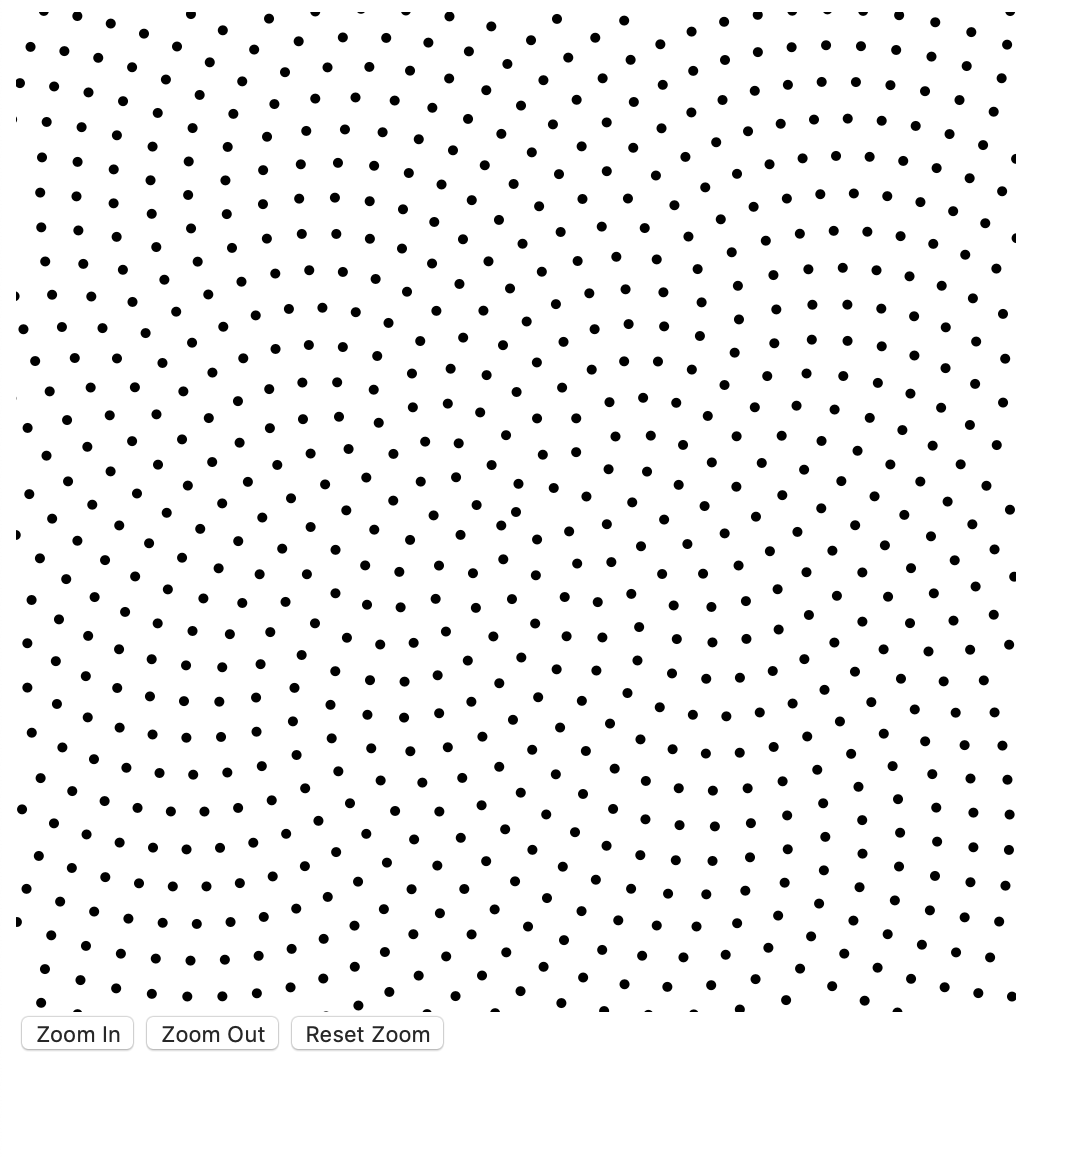
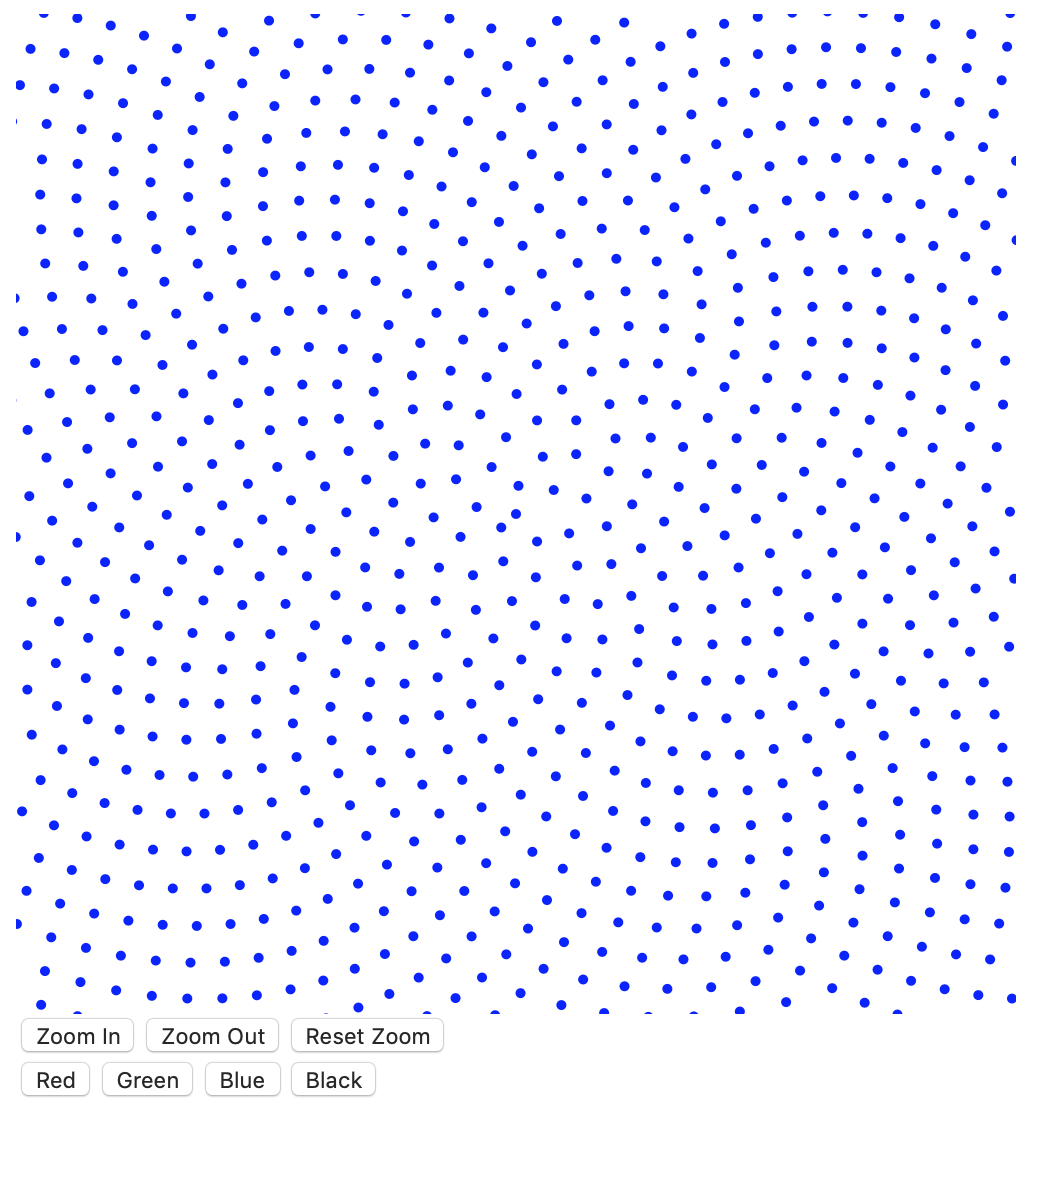
more code

diff --git a/src/App.js b/src/App.js
@@ -1,4 +1,4 @@
-import React, { useRef, useCallback } from "react";
+import React, { useState, useRef, useCallback } from "react";
 import { tween } from "popmotion";
 import useCanvasDrawer from "./useCanvasDrawer";
 import usePopmotionD3Zoom from "./usePopmotionD3Zoom";
@@ -11,8 +11,14 @@ const scale = window.devicePixelRatio;
 
 export default () => {
   const ref = useRef(null);
+  const [color, setColor] = useState("black");
 
-  const updateCanvas = useCanvasDrawer(ref, drawMap, { width, height, scale });
+  const updateCanvas = useCanvasDrawer(ref, drawMap, {
+    color,
+    width,
+    height,
+    scale
+  });
   const coordinates = usePopmotionD3Zoom(ref, updateCanvas);
 
   const zoom = useCallback(scale => {
@@ -45,6 +51,19 @@ export default () => {
       </button>
       <button type="button" onClick={resetZoom}>
         Reset Zoom
+      </button>
+      <br />
+      <button type="button" onClick={() => setColor("red")}>
+        Red
+      </button>
+      <button type="button" onClick={() => setColor("green")}>
+        Green
+      </button>
+      <button type="button" onClick={() => setColor("blue")}>
+        Blue
+      </button>
+      <button type="button" onClick={() => setColor("black")}>
+        Black
       </button>
     </React.Fragment>
   );

diff --git a/src/usePopmotionD3Zoom.js b/src/usePopmotionD3Zoom.js
@@ -18,10 +18,12 @@ export default (ref, updater) => {
   }, []);
   const setD3Coordinates = useD3Zoom(ref, updateCoordinates);
 
-  useEffect(() => {
-    coordinates.current.subscribe(setD3Coordinates);
-    coordinates.current.subscribe(updater);
-  }, []);
+  useEffect(() => coordinates.current.subscribe(setD3Coordinates).unsubscribe, [
+    setD3Coordinates
+  ]);
+  useEffect(() => coordinates.current.subscribe(updater).unsubscribe, [
+    updater
+  ]);
 
   return coordinates.current;
 };

diff --git a/src/drawMap.js b/src/drawMap.js
@@ -1,10 +1,10 @@
 import { range } from "d3";
 
-export default (ctx, { x, y, zoom }, { width, height, scale = 1 }) => {
+export default (ctx, { color, width, height, scale = 1 }, { x, y, zoom }) => {
   ctx.setTransform(scale, 0, 0, scale, 0, 0);
   ctx.clearRect(0, 0, width, height);
   ctx.setTransform(zoom * scale, 0, 0, zoom * scale, x * scale, y * scale);
-  ctx.fillStyle = "black";
+  ctx.fillStyle = color;
   drawPoints(ctx);
 };
 

diff --git a/src/useCanvasDrawer.js b/src/useCanvasDrawer.js
@@ -1,8 +1,12 @@
 import { useCallback } from "react";
 
 export default (ref, draw, params) => {
-  return useCallback(
-    coords => draw(ref.current.getContext("2d"), coords, params),
-    []
+  const render = useCallback(
+    coords => {
+      draw(ref.current.getContext("2d"), params, coords);
+    },
+    [params]
   );
+
+  return render;
 };
